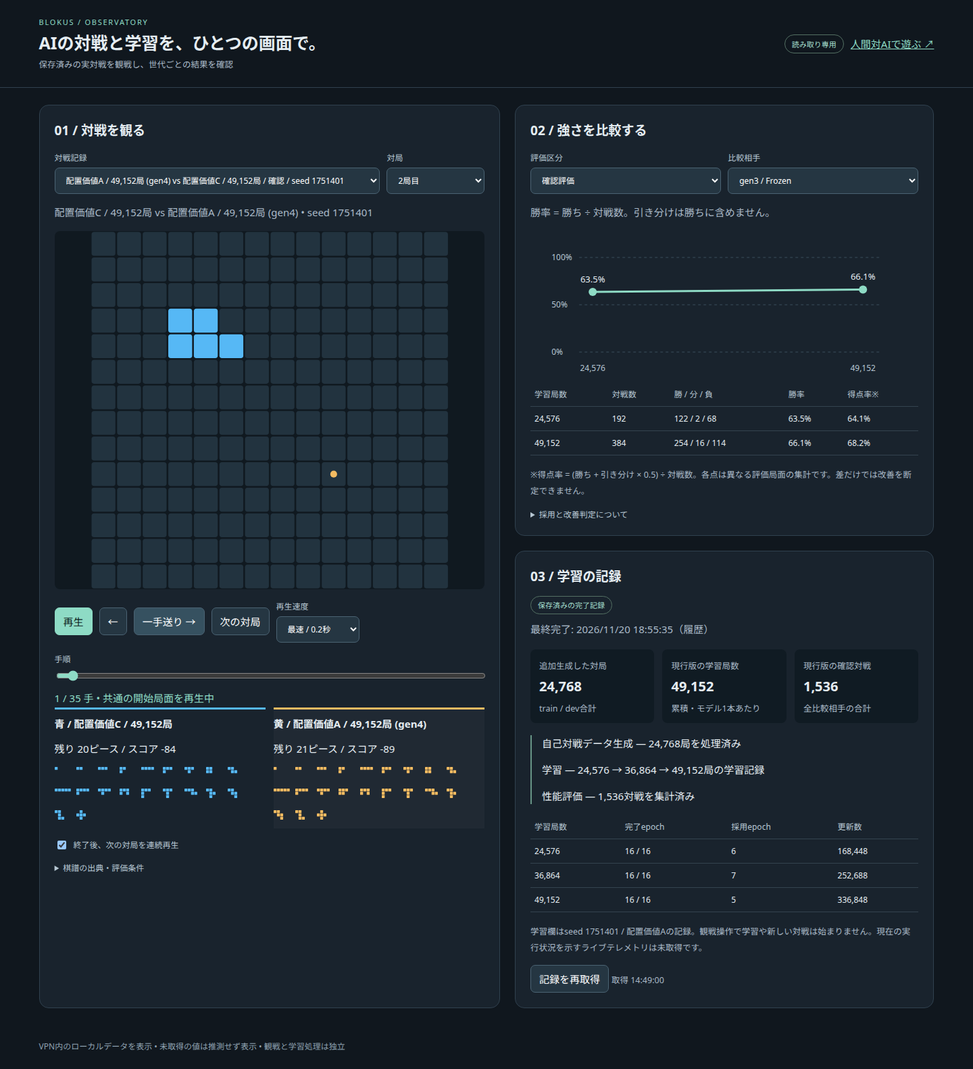
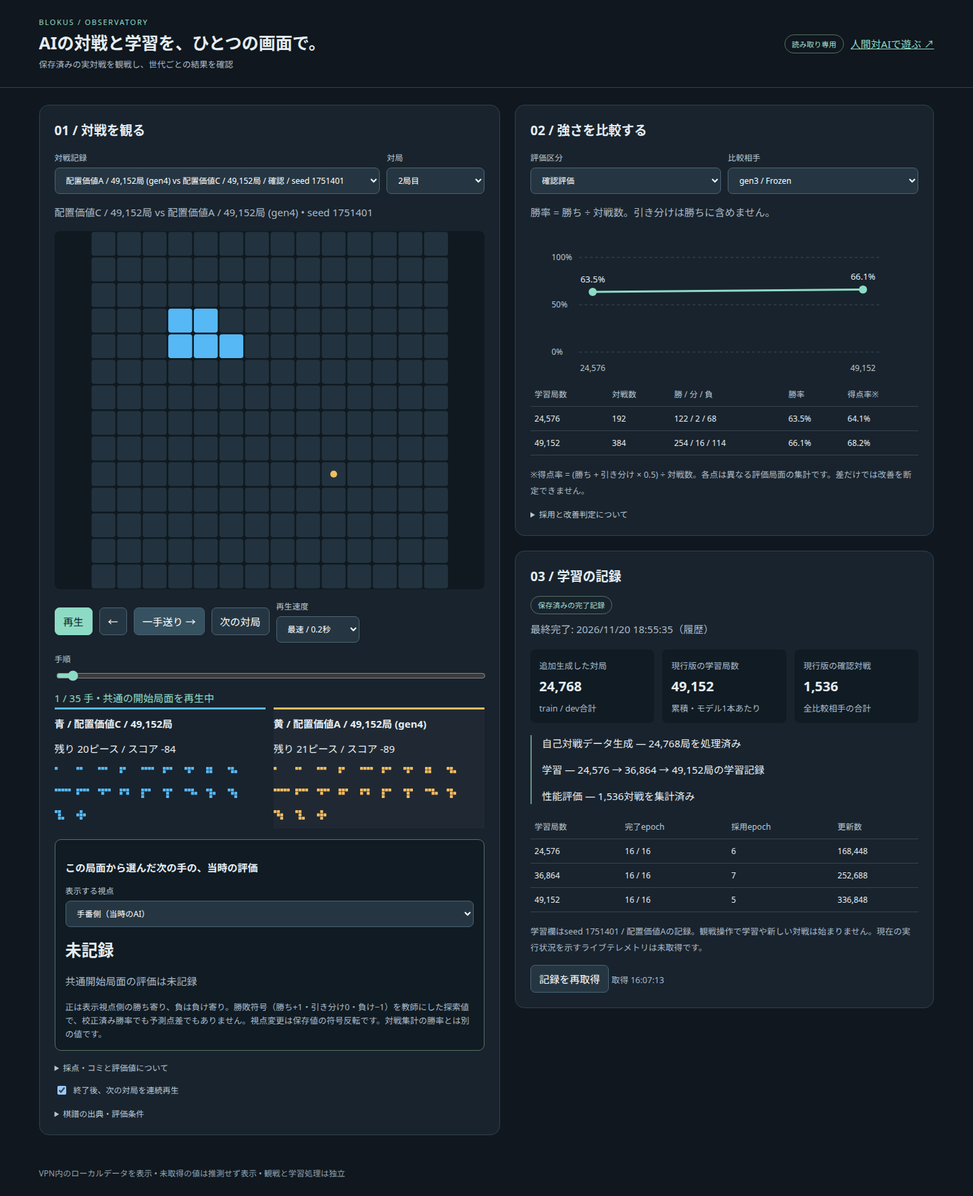
Show recorded move evaluations and hold terminal results before advancing

diff --git a/blokus/console.html b/blokus/console.html
@@ -1,33 +1,60 @@
 <!doctype html><html lang="ja"><meta charset="utf-8"><meta name="viewport" content="width=device-width,initial-scale=1"><title>Blokus Observatory — AI観戦コンソール</title>
 <style>
-:root{color-scheme:dark;font-family:system-ui,sans-serif;background:#10171e;color:#e5edf2;font-size:15px}*{box-sizing:border-box}body{margin:0}header{padding:25px 4vw;border-bottom:1px solid #31414e;display:flex;justify-content:space-between;align-items:center;gap:20px}h1{font-size:25px;margin:4px 0}h2{font-size:19px;margin:0 0 18px}h3{font-size:15px}p{line-height:1.6}.eyebrow{letter-spacing:.16em;color:#8edbc5;font-size:11px}.muted,small{color:#a9b9c7}a{color:#8edbc5}main{max-width:1550px;margin:auto;padding:25px 4vw}.grid{display:grid;grid-template-columns:minmax(370px,1.1fr) minmax(360px,1fr);gap:22px}.grid>*,.panel{min-width:0}.panel{background:#19232d;border:1px solid #30414f;border-radius:14px;padding:22px;margin-bottom:22px}.row{display:flex;gap:10px;align-items:center;flex-wrap:wrap}label{display:grid;gap:6px;font-size:12px;color:#b6c6d2;flex:1;min-width:120px}button,select{font:inherit;border:1px solid #4b6373;background:#253642;color:#fff;border-radius:7px;padding:9px 12px;max-width:100%}select{width:100%;min-width:0}button{cursor:pointer}button:hover{background:#365160}button:disabled{opacity:.4;cursor:default}button.primary{background:#8edbc5;color:#10271f;border-color:#8edbc5}input[type=range]{width:100%;accent-color:#8edbc5}#board{width:100%;max-height:530px;display:block;margin:16px auto;background:#101920;border-radius:8px}#players{display:grid;grid-template-columns:1fr 1fr;gap:12px}.player{border-top:3px solid #56b8f5;padding-top:10px;min-width:0}.player:nth-child(2){border-color:#f4bb61}.player.active{background:#ffffff08}.pieces{display:flex;flex-wrap:wrap;gap:5px;margin-top:9px}.piece{width:27px;height:27px}.state{color:#8edbc5;font-variant-numeric:tabular-nums;min-height:25px;margin-top:12px}#chart{width:100%;height:220px}table{width:100%;border-collapse:collapse;font-size:12px}td,th{padding:9px 6px;border-bottom:1px solid #34434f;text-align:left}th{color:#b6c6d2;font-weight:500}.scroll{overflow:auto}.tag{font-size:11px;border:1px solid #547063;border-radius:20px;padding:5px 10px;color:#a4dfcd}.metric{display:grid;grid-template-columns:repeat(3,1fr);gap:12px;margin:18px 0}.metric>div{background:#101b23;border-radius:8px;padding:13px}.metric strong{display:block;font-size:20px;margin:8px 0}.error{color:#ffbdad;white-space:pre-wrap}details{margin-top:15px;font-size:12px;color:#b6c6d2;overflow-wrap:anywhere}summary{cursor:pointer}.steps{border-left:2px solid #679586;padding-left:15px;line-height:1.8}footer{padding:0 4vw 25px;color:#8da0af;font-size:12px}@media(max-width:900px){.grid{grid-template-columns:1fr}header{align-items:flex-start;flex-direction:column}.panel{padding:16px}main{padding:20px 4vw}.metric{gap:6px}.metric strong{font-size:17px}}@media(prefers-reduced-motion:reduce){*{scroll-behavior:auto}}
+:root{color-scheme:dark;font-family:system-ui,sans-serif;background:#10171e;color:#e5edf2;font-size:15px}*{box-sizing:border-box}body{margin:0}header{padding:25px 4vw;border-bottom:1px solid #31414e;display:flex;justify-content:space-between;align-items:center;gap:20px}h1{font-size:25px;margin:4px 0}h2{font-size:19px;margin:0 0 18px}h3{font-size:15px}p{line-height:1.6}.eyebrow{letter-spacing:.16em;color:#8edbc5;font-size:11px}.muted,small{color:#a9b9c7}a{color:#8edbc5}main{max-width:1550px;margin:auto;padding:25px 4vw}.grid{display:grid;grid-template-columns:minmax(370px,1.1fr) minmax(360px,1fr);gap:22px}.grid>*,.panel{min-width:0}.panel{background:#19232d;border:1px solid #30414f;border-radius:14px;padding:22px;margin-bottom:22px}.row{display:flex;gap:10px;align-items:center;flex-wrap:wrap}label{display:grid;gap:6px;font-size:12px;color:#b6c6d2;flex:1;min-width:120px}button,select{font:inherit;border:1px solid #4b6373;background:#253642;color:#fff;border-radius:7px;padding:9px 12px;max-width:100%}select{width:100%;min-width:0}button{cursor:pointer}button:hover{background:#365160}button:disabled{opacity:.4;cursor:default}button.primary{background:#8edbc5;color:#10271f;border-color:#8edbc5}input[type=range]{width:100%;accent-color:#8edbc5}#board{width:100%;max-height:530px;display:block;margin:16px auto;background:#101920;border-radius:8px}#players{display:grid;grid-template-columns:1fr 1fr;gap:12px}.player{border-top:3px solid #56b8f5;padding-top:10px;min-width:0}.player:nth-child(2){border-color:#f4bb61}.player.active{background:#ffffff08}.pieces{display:flex;flex-wrap:wrap;gap:5px;margin-top:9px}.piece{width:27px;height:27px}.evaluation,.result{margin:16px 0;padding:15px;border:1px solid #547063;border-radius:9px;background:#101b23}.result{border-color:#f4bb61;font-size:18px}.evaluation strong{font-size:24px}.state{color:#8edbc5;font-variant-numeric:tabular-nums;min-height:25px;margin-top:12px}#chart{width:100%;height:220px}table{width:100%;border-collapse:collapse;font-size:12px}td,th{padding:9px 6px;border-bottom:1px solid #34434f;text-align:left}th{color:#b6c6d2;font-weight:500}.scroll{overflow:auto}.tag{font-size:11px;border:1px solid #547063;border-radius:20px;padding:5px 10px;color:#a4dfcd}.metric{display:grid;grid-template-columns:repeat(3,1fr);gap:12px;margin:18px 0}.metric>div{background:#101b23;border-radius:8px;padding:13px}.metric strong{display:block;font-size:20px;margin:8px 0}.error{color:#ffbdad;white-space:pre-wrap}details{margin-top:15px;font-size:12px;color:#b6c6d2;overflow-wrap:anywhere}summary{cursor:pointer}.steps{border-left:2px solid #679586;padding-left:15px;line-height:1.8}footer{padding:0 4vw 25px;color:#8da0af;font-size:12px}@media(max-width:900px){.grid{grid-template-columns:1fr}header{align-items:flex-start;flex-direction:column}.panel{padding:16px}main{padding:20px 4vw}.metric{gap:6px}.metric strong{font-size:17px}}@media(prefers-reduced-motion:reduce){*{scroll-behavior:auto}}
 </style>
 <header><div><div class="eyebrow">BLOKUS / OBSERVATORY</div><h1>AIの対戦と学習を、ひとつの画面で。</h1><small>保存済みの実対戦を観戦し、世代ごとの結果を確認</small></div><div class="row"><span class="tag">読み取り専用</span><a href="http://100.95.30.96:8765/">人間対AIで遊ぶ ↗</a></div></header>
-<main><div id="error" class="error" role="alert"></div><div class="grid"><section class="panel"><h2>01 / 対戦を観る</h2><div class="row"><label>対戦記録<select id="group"></select></label><label style="flex:0.3">対局<select id="game"></select></label></div><p id="match" class="muted">棋譜を取得中…</p><svg id="board" viewBox="0 0 420 420" role="img" aria-label="14×14のブロックス盤面"></svg><div class="row"><button id="play" class="primary" disabled>再生</button><button id="back" disabled aria-label="一手戻る">←</button><button id="step" disabled>一手送り →</button><button id="next" disabled>次の対局</button><label style="flex:0.4">再生速度<select id="speed"><option value="2000">ゆっくり / 2秒</option><option value="1000" selected>標準 / 1秒</option><option value="500">速い / 0.5秒</option><option value="200">最速 / 0.2秒</option></select></label></div><label style="margin-top:15px">手順<input id="seek" type="range" min="0" max="0" value="0" disabled></label><div id="state" class="state" role="status"></div><div id="players"></div><p><label style="display:flex;align-items:center;gap:8px"><input type="checkbox" id="continuous" checked>終了後、次の対局を連続再生</label></p><details><summary>棋譜の出典・評価条件</summary><p id="source"></p><p>評価対戦は共通の開始局面から行われています。開始局面までの手順も再生します。人間対AIの保存棋譜は別枠で表示し、評価勝率には含めません。</p></details></section>
+<main><div id="error" class="error" role="alert"></div><div class="grid"><section class="panel"><h2>01 / 対戦を観る</h2><div class="row"><label>対戦記録<select id="group"></select></label><label style="flex:0.3">対局<select id="game"></select></label></div><p id="match" class="muted">棋譜を取得中…</p><svg id="board" viewBox="0 0 420 420" role="img" aria-label="14×14のブロックス盤面"></svg><div class="row"><button id="play" class="primary" disabled>再生</button><button id="back" disabled aria-label="一手戻る">←</button><button id="step" disabled>一手送り →</button><button id="next" disabled>次の対局</button><label style="flex:0.4">再生速度<select id="speed"><option value="2000">ゆっくり / 2秒</option><option value="1000" selected>標準 / 1秒</option><option value="500">速い / 0.5秒</option><option value="200">最速 / 0.2秒</option></select></label></div><label style="margin-top:15px">手順<input id="seek" type="range" min="0" max="0" value="0" disabled></label><div id="state" class="state" role="status"></div><div id="result" class="result" role="status" hidden></div><div id="players"></div>
+<div class="evaluation"><h3>この局面から選んだ次の手の、当時の評価</h3><label>表示する視点<select id="perspective"><option value="mover">手番側（当時のAI）</option><option value="0">青・先手</option><option value="1">黄・後手</option></select></label><p><strong id="evaluation-value">未記録</strong></p><p id="evaluation-detail" class="muted"></p><small>正は表示視点側の勝ち寄り、負は負け寄り。勝敗符号（勝ち+1・引き分け0・負け−1）を教師にした探索値で、校正済み勝率でも予測点差でもありません。視点変更は保存値の符号反転です。対戦集計の勝率とは別の値です。</small></div>
+<details><summary>採点・コミと評価値について</summary><p>現行コードと保存スコアではコミなし（先後の点数補正なし）。残りマス数の負点がスコアです。全ピースを置くと合計+15点、最後が単マスなら合計+20点（+15にさらに+20ではありません）。高い方が勝ち、同点は引き分けです。</p><p>途中のスコアは現在の残りマスからの値で、終局点差の予測ではありません。gen4の学習対象は終局点差そのものではなく、その符号です。</p></details><p><label style="display:flex;align-items:center;gap:8px"><input type="checkbox" id="continuous" checked>終了後、次の対局を連続再生</label></p><details><summary>棋譜の出典・評価条件</summary><p id="source"></p><p>評価対戦は共通の開始局面から行われています。開始局面までの手順も再生します。人間対AIの保存棋譜は別枠で表示し、評価勝率には含めません。</p></details></section>
 <div><section class="panel"><h2>02 / 強さを比較する</h2><div class="row"><label>評価区分<select id="phase"><option value="validation">段階評価</option><option value="confirmation" selected>確認評価</option></select></label><label>比較相手<select id="opponent"></select></label></div><p class="muted">勝率 = 勝ち ÷ 対戦数。引き分けは勝ちに含めません。</p><svg id="chart" viewBox="0 0 520 220" role="img" aria-label="学習局数ごとの勝率推移"></svg><div class="scroll"><table><thead><tr><th>学習局数</th><th>対戦数</th><th>勝 / 分 / 負</th><th>勝率</th><th>得点率※</th></tr></thead><tbody id="evaluations"></tbody></table></div><p class="muted"><small>※得点率 = (勝ち + 引き分け × 0.5) ÷ 対戦数。各点は異なる評価局面の集計です。差だけでは改善を断定できません。</small></p><details><summary>採用と改善判定について</summary><p>gen4は49,152局版を採用済みですが、24,576局版に対する改善は確認されていません。結果の良し悪しに関わらず保存された段階を表示します。「直前段階」は比較相手が変わるため、相手名を分けています。</p><p id="eval-source"></p></details></section>
 <section class="panel"><h2>03 / 学習の記録</h2><span id="training-state" class="tag">未取得</span><p id="completed" class="muted"></p><div class="metric"><div><small>追加生成した対局</small><strong id="generated">未取得</strong><small>train / dev合計</small></div><div><small>現行版の学習局数</small><strong id="trained">未取得</strong><small>累積・モデル1本あたり</small></div><div><small>現行版の確認対戦</small><strong id="evaluated">未取得</strong><small>全比較相手の合計</small></div></div><div id="stages" class="steps"></div><div class="scroll"><table><thead><tr><th>学習局数</th><th>完了epoch</th><th>採用epoch</th><th>更新数</th></tr></thead><tbody id="training"></tbody></table></div><p class="muted"><small>学習欄はseed 1751401 / 配置価値Aの記録。観戦操作で学習や新しい対戦は始まりません。現在の実行状況を示すライブテレメトリは未取得です。</small></p><button id="refresh">記録を再取得</button> <small id="updated"></small></section></div></div></main><footer>VPN内のローカルデータを表示 • 未取得の値は推測せず表示 • 観戦と学習処理は独立</footer>
 <script>
 'use strict';
 const $=id=>document.getElementById(id),NS='http://www.w3.org/2000/svg',colors=['#56b8f5','#f4bb61'];
-let catalog,replay,ply=0,timer=null,playing=false,serial=0;
+let catalog,replay,ply=0,timer=null,playing=false,serial=0,endDeadline=null;
 const number=n=>n==null?'未取得':n.toLocaleString('ja-JP');
 function svg(tag,attrs,parent){const el=document.createElementNS(NS,tag);for(const [k,v]of Object.entries(attrs))el.setAttribute(k,v);parent.append(el);return el;}
 function text(parent,value){parent.textContent=value;return parent;}
 function option(select,value,label){select.add(new Option(label,value));}
 async function get(url){const response=await fetch(url);const data=await response.json();if(!response.ok)throw Error(data.error||'データ取得失敗');return data;}
 function fail(e){$('error').textContent='取得・検証エラー: '+e.message;stop();}
-function stop(){playing=false;clearTimeout(timer);timer=null;$('play').textContent='再生';}
-function schedule(){clearTimeout(timer);if(playing)timer=setTimeout(tick,Number($('speed').value));}
-async function tick(){if(!playing||!replay)return;if(ply<replay.moves.length){ply++;render();schedule();}else if($('continuous').checked&&replay.count>1){await loadGame((Number($('game').value)+1)%replay.count,true);}else stop();}
+function stop(){playing=false;clearTimeout(timer);timer=null;endDeadline=null;$('play').textContent='再生';}
+function schedule(){
+ clearTimeout(timer);if(!playing||!replay)return;
+ if(ply===replay.moves.length){
+  if(!replay.frames[ply].done||!$('continuous').checked||replay.count<2){stop();return;}
+  if(endDeadline===null)endDeadline=performance.now()+3000;
+  timer=setTimeout(tick,Math.max(0,endDeadline-performance.now()));
+ }else{endDeadline=null;timer=setTimeout(tick,Number($('speed').value));}
+}
+async function tick(){
+ if(!playing||!replay)return;
+ if(ply<replay.moves.length){ply++;render();schedule();}
+ else if(endDeadline!==null&&performance.now()<endDeadline){schedule();}
+ else if(replay.frames[ply].done&&$('continuous').checked&&replay.count>1){await loadGame((Number($('game').value)+1)%replay.count,true);}
+ else stop();
+}
+function evaluation(){
+ if(!replay)return;
+ const e=replay.evaluations?.[ply],p=$('perspective').value==='mover'?e?.player:Number($('perspective').value);
+ if(e?.value==null){$('evaluation-value').textContent='未記録';$('evaluation-detail').textContent=(e?.reason||'評価値は未記録')+(e?.depth!=null?` / 保存された探索深さ ${e.depth}`:'');return;}
+ const value=e.value*(p===e.player?1:-1),side=p===0?'青・先手':'黄・後手',m=e.move;
+ $('evaluation-value').textContent=(value>=0?'+':'')+value.toFixed(4);
+ $('evaluation-detail').textContent=`${side}視点 / 当時の手番: ${e.player===0?'青・先手':'黄・後手'} / ${e.model} / seed ${replay.seed} / 完了深さ ${e.depth} / 選択手: ピース${m[0]+1} (${m[2]+1}行${m[3]+1}列) / ${e.candidate_count}候補中の最大評価${p!==e.player?'を符号反転':''}`;
+}
 function render(){if(!replay)return;const f=replay.frames[ply],board=$('board');board.replaceChildren();const occupied=new Map();f.boards.forEach((cells,p)=>cells.forEach(([r,c])=>occupied.set(r+','+c,p)));for(let r=0;r<14;r++)for(let c=0;c<14;c++){const p=occupied.get(r+','+c);svg('rect',{x:c*30+1,y:r*30+1,width:28,height:28,rx:3,fill:p===undefined?'#22333f':colors[p]},board);}[[4,4],[9,9]].forEach(([r,c],p)=>{if(!occupied.has(r+','+c))svg('circle',{cx:c*30+15,cy:r*30+15,r:4,fill:colors[p]},board);});$('seek').value=ply;
 const phase=ply<replay.prefix_plies?'共通の開始局面を再生中':f.done?'対局終了':ply===replay.moves.length?'保存はここまで':'手番: '+replay.players[f.turn];
 const outcome=f.done?(f.scores[0]===f.scores[1]?'引き分け':replay.players[f.scores[0]>f.scores[1]?0:1]+' の勝ち'):'';
 $('state').textContent=`${ply} / ${replay.moves.length} 手 • ${phase}${outcome?' • '+outcome:''}${ply&&replay.moves[ply-1]===null?' • パス':''}`;
-$('players').replaceChildren();replay.players.forEach((name,p)=>{const wrap=document.createElement('div');wrap.className='player'+(!f.done&&p===f.turn?' active':'');const title=document.createElement('strong');title.textContent=(p===0?'青':'黄')+' / '+name;wrap.append(title);const desc=document.createElement('p');desc.textContent=`残り ${f.remaining[p].length}ピース / スコア ${f.scores[p]}`;wrap.append(desc);const pieces=document.createElement('div');pieces.className='pieces';for(const id of f.remaining[p]){const s=svg('svg',{viewBox:'0 0 50 50',class:'piece',role:'img','aria-label':'ピース'+(id+1)},pieces);for(const [r,c]of catalog.pieces[id])svg('rect',{x:c*9,y:r*9,width:8,height:8,rx:1,fill:colors[p]},s);}wrap.append(pieces);$('players').append(wrap);});$('back').disabled=ply===0;$('step').disabled=ply===replay.moves.length;}
-async function loadGame(index=0,resume=false){stop();const token=++serial;replay=null;['play','back','step','next','seek'].forEach(id=>$(id).disabled=true);$('state').textContent='棋譜を検証中…';try{const group=$('group').value;const data=await get(group.startsWith('archive:')?'/api/archive?id='+encodeURIComponent(group.slice(8)):'/api/replay?group='+encodeURIComponent(group)+'&index='+index);if(token!==serial)return;replay=data;ply=0;$('game').value=String(index);$('seek').max=data.moves.length;$('play').disabled=false;$('seek').disabled=false;$('next').disabled=data.count<2;$('match').textContent=`${data.players.join(' vs ')} • seed ${data.seed??'未取得'}`;$('source').textContent=`${data.kind} / ${data.source} / ${index+1}局目 / ${data.budget_ms??'未取得'}ms / 共通開始局面 ${data.prefix_plies}手`;$('error').textContent='';render();if(resume){playing=true;$('play').textContent='停止';schedule();}}catch(e){if(token===serial)fail(e);}}
+$('players').replaceChildren();replay.players.forEach((name,p)=>{const wrap=document.createElement('div');wrap.className='player'+(!f.done&&p===f.turn?' active':'');const title=document.createElement('strong');title.textContent=(p===0?'青':'黄')+' / '+name;wrap.append(title);const desc=document.createElement('p');desc.textContent=`残り ${f.remaining[p].length}ピース / スコア ${f.scores[p]}`;wrap.append(desc);const pieces=document.createElement('div');pieces.className='pieces';for(const id of f.remaining[p]){const s=svg('svg',{viewBox:'0 0 50 50',class:'piece',role:'img','aria-label':'ピース'+(id+1)},pieces);for(const [r,c]of catalog.pieces[id])svg('rect',{x:c*9,y:r*9,width:8,height:8,rx:1,fill:colors[p]},s);}wrap.append(pieces);$('players').append(wrap);});$('back').disabled=ply===0;$('step').disabled=ply===replay.moves.length;
+ $('result').hidden=!f.done;
+ $('result').textContent=f.done?`${outcome}｜青 ${f.scores[0]}点 / 黄 ${f.scores[1]}点｜${Math.abs(f.scores[0]-f.scores[1])}点差` : '';
+ evaluation();
+}
+async function loadGame(index=0,resume=false){stop();const token=++serial;replay=null;$('result').hidden=true;$('evaluation-value').textContent='未記録';$('evaluation-detail').textContent='棋譜を取得中…';['play','back','step','next','seek'].forEach(id=>$(id).disabled=true);$('state').textContent='棋譜を検証中…';try{const group=$('group').value;const data=await get(group.startsWith('archive:')?'/api/archive?id='+encodeURIComponent(group.slice(8)):'/api/replay?group='+encodeURIComponent(group)+'&index='+index);if(token!==serial)return;replay=data;ply=0;$('game').value=String(index);$('seek').max=data.moves.length;$('play').disabled=false;$('seek').disabled=false;$('next').disabled=data.count<2;$('match').textContent=`${data.players.join(' vs ')} • seed ${data.seed??'未取得'}`;$('source').textContent=`${data.kind} / ${data.source} / ${index+1}局目 / ${data.budget_ms??'未取得'}ms / 共通開始局面 ${data.prefix_plies}手`;$('error').textContent='';render();if(resume){playing=true;$('play').textContent='停止';schedule();}}catch(e){if(token===serial)fail(e);}}
 function groupChanged(){const value=$('group').value;const group=catalog.groups.find(g=>g.id===value);$('game').replaceChildren();for(let i=0;i<(group?.count||1);i++)option($('game'),i,`${i+1}局目`);loadGame();}
 function plot(){const phase=$('phase').value,opponent=$('opponent').value;const rows=catalog.evaluations.filter(e=>e.phase===phase&&e.opponent===opponent).sort((a,b)=>a.stage-b.stage);$('evaluations').replaceChildren();for(const r of rows){const tr=document.createElement('tr');for(const v of[number(r.stage),number(r.games),`${r.wins} / ${r.draws} / ${r.losses}`,(100*r.win_rate).toFixed(1)+'%',(100*r.point).toFixed(1)+'%']){const td=document.createElement('td');td.textContent=v;tr.append(td);}$('evaluations').append(tr);}const chart=$('chart');chart.replaceChildren();for(const pct of[0,50,100]){const y=180-pct*1.4;svg('line',{x1:45,x2:490,y1:y,y2:y,stroke:'#3b4e5c','stroke-dasharray':'4 4'},chart);text(svg('text',{x:4,y:y+4,fill:'#b6c6d2','font-size':12},chart),pct+'%');}const points=rows.map((r,i)=>[rows.length===1?267:65+i*400/(rows.length-1),180-r.win_rate*140]);if(points.length>1)svg('polyline',{points:points.map(p=>p.join(',')).join(' '),fill:'none',stroke:'#8edbc5','stroke-width':3},chart);points.forEach(([x,y],i)=>{const r=rows[i];const c=svg('circle',{cx:x,cy:y,r:6,fill:'#8edbc5'},chart);text(svg('title',{},c),`${r.stage}局 / 対${r.opponent}: ${r.wins}勝 ${r.draws}分 ${r.losses}敗`);text(svg('text',{x,y:y-14,fill:'#e5edf2','font-size':13,'text-anchor':'middle'},chart),(r.win_rate*100).toFixed(1)+'%');text(svg('text',{x,y:208,fill:'#b6c6d2','font-size':12,'text-anchor':'middle'},chart),number(r.stage));});if(!rows.length)text(svg('text',{x:160,y:100,fill:'#b6c6d2'},chart),'比較データは未取得');$('eval-source').textContent=rows.map(r=>r.source).join(' / ');}
 function comparisons(){const prior=$('opponent').value;$('opponent').replaceChildren();const names=[...new Set(catalog.evaluations.filter(e=>e.phase===$('phase').value).map(e=>e.opponent))];names.sort((a,b)=>(a==='gen3 / Frozen'?-1:b==='gen3 / Frozen'?1:a.localeCompare(b)));names.forEach(n=>option($('opponent'),n,n));if(names.includes(prior))$('opponent').value=prior;plot();}
 async function refresh(){try{const data=await get('/api/catalog');catalog=data;const prior=$('group').value;$('group').replaceChildren();data.groups.sort((a,b)=>b.stage-a.stage||a.phase.localeCompare(b.phase));for(const g of data.groups)option($('group'),g.id,`${g.left} vs ${g.right} / ${g.phase==='confirmation'?'確認':'段階'} / seed ${g.seed}`);for(const g of data.archive)option($('group'),'archive:'+g.id,`人間 vs ${g.mode} / ${g.started.slice(0,10)} / ${g.plies}手`);if([...$('group').options].some(o=>o.value===prior))$('group').value=prior;if(!replay&&$('group').options.length)groupChanged();else if(!$('group').options.length){$('match').textContent='棋譜は未取得です';$('state').textContent='';}comparisons();const p=data.progress;$('training-state').textContent=p.finished?'保存済みの完了記録':'完了状況は未取得';$('completed').textContent=p.finished?'最終完了: '+new Date(p.finished).toLocaleString('ja-JP')+'（履歴）':'完了時刻は未取得です';$('generated').textContent=number(p.generated);$('trained').textContent=number(data.training.find(t=>t.stage===49152)?.games);const evaluation=data.evaluations.filter(e=>e.stage===49152&&e.phase==='confirmation');$('evaluated').textContent=evaluation.length?number(evaluation.reduce((s,e)=>s+e.games,0)):'未取得';$('stages').replaceChildren();for(const [name,matching]of[['自己対戦データ生成',p.generated!=null?`${number(p.generated)}局を処理済み`:'未取得'],['学習',data.training.length?`${data.training.map(t=>number(t.stage)).join(' → ')}局の学習記録`:'未取得'],['性能評価',evaluation.length?`${number(evaluation.reduce((s,e)=>s+e.games,0))}対戦を集計済み`:'未取得']]){const line=document.createElement('p');line.textContent=name+' — '+matching;$('stages').append(line);}$('training').replaceChildren();for(const t of data.training){const tr=document.createElement('tr');for(const v of[number(t.stage),`${number(t.epochs)} / ${number(t.target_epochs)}`,number(t.selected_epoch),number(t.updates)]){const td=document.createElement('td');td.textContent=v;tr.append(td);}$('training').append(tr);}$('updated').textContent='取得 '+new Date(data.updated).toLocaleTimeString('ja-JP');if(data.errors.length)$('error').textContent=data.errors.join('\n');}catch(e){fail(e);}}
-$('play').onclick=()=>{if(playing)stop();else if(replay){if(ply===replay.moves.length)ply=0;playing=true;$('play').textContent='停止';render();schedule();}};$('step').onclick=()=>{stop();ply=Math.min(ply+1,replay.moves.length);render();};$('back').onclick=()=>{stop();ply=Math.max(ply-1,0);render();};$('seek').oninput=()=>{stop();ply=Number($('seek').value);render();};$('next').onclick=()=>loadGame((Number($('game').value)+1)%replay.count,playing);$('speed').onchange=schedule;$('group').onchange=groupChanged;$('game').onchange=()=>loadGame(Number($('game').value));$('phase').onchange=comparisons;$('opponent').onchange=plot;$('refresh').onclick=refresh;refresh();
+$('play').onclick=()=>{if(playing)stop();else if(replay){playing=true;$('play').textContent='停止';render();schedule();}};$('step').onclick=()=>{stop();ply=Math.min(ply+1,replay.moves.length);render();};$('back').onclick=()=>{stop();ply=Math.max(ply-1,0);render();};$('seek').oninput=()=>{stop();ply=Number($('seek').value);render();};$('next').onclick=()=>loadGame((Number($('game').value)+1)%replay.count,playing);$('speed').onchange=schedule;$('perspective').onchange=evaluation;$('continuous').onchange=()=>{if(replay&&ply===replay.moves.length&&!$('continuous').checked)stop();};$('group').onchange=groupChanged;$('game').onchange=()=>loadGame(Number($('game').value));$('phase').onchange=comparisons;$('opponent').onchange=plot;$('refresh').onclick=refresh;refresh();
 </script></html>

diff --git a/scripts/check_console_evaluation_browser.py b/scripts/check_console_evaluation_browser.py
@@ -1,0 +1,71 @@
+"""Check recorded perspectives and terminal hold using real replay and wall time."""
+import json,time
+from pathlib import Path
+from playwright.sync_api import sync_playwright
+out=Path('artifacts/console-review')
+with sync_playwright() as p:
+    browser=p.chromium.launch(executable_path='/usr/bin/google-chrome',headless=True,args=['--no-sandbox'])
+    page=browser.new_page(viewport={'width':1440,'height':1100});errors=[]
+    page.on('pageerror',lambda e:errors.append(str(e)))
+    page.goto('http://100.95.30.96:8766/')
+    page.wait_for_function('replay && replay.evaluations!==undefined')
+    def seek(expr):
+        page.locator('#seek').evaluate('(el,expression)=>{el.value=eval(expression);el.dispatchEvent(new Event("input"));}',expr)
+    seek('replay.prefix_plies')
+    original=page.evaluate('replay.evaluations[ply]')
+    assert original['value'] is not None
+    page.select_option('#perspective',str(original['player']))
+    a=float(page.locator('#evaluation-value').inner_text())
+    page.select_option('#perspective',str(1-original['player']))
+    b=float(page.locator('#evaluation-value').inner_text());assert abs(a+b)<.00001
+    assert '符号反転' in page.locator('#evaluation-detail').inner_text()
+    page.click('#step');next_eval=page.evaluate('replay.evaluations[ply]')
+    assert next_eval['player']!=original['player']
+    page.select_option('#perspective','mover')
+    assert abs(float(page.locator('#evaluation-value').inner_text())-next_eval['value'])<.0001
+    page.screenshot(path=str(out/'evaluation-desktop.png'),full_page=True)
+    seek('0');assert page.locator('#evaluation-value').inner_text()=='未記録'
+    page.select_option('#speed','200')
+    seek('replay.moves.length-1');page.click('#play')
+    page.wait_for_function('ply===replay.moves.length');start=time.monotonic()
+    old=page.locator('#game').input_value()
+    assert page.locator('#result').is_visible()
+    assert '点差' in page.locator('#result').inner_text()
+    result=page.locator('#result').inner_text()
+    page.screenshot(path=str(out/'terminal-result.png'),full_page=True)
+    # Change speed while holding: original end deadline must be preserved.
+    page.select_option('#speed','2000')
+    time.sleep(max(0,2.6-(time.monotonic()-start)))
+    assert page.locator('#game').input_value()==old
+    page.wait_for_function('(old)=>document.getElementById("game").value!==old && replay!==null',arg=old)
+    elapsed=time.monotonic()-start;assert 2.85<=elapsed<4.2,elapsed
+    page.click('#play')
+    # Pausing during terminal hold prevents the queued transition.
+    page.select_option('#speed','200');seek('replay.moves.length-1');page.click('#play')
+    page.wait_for_function('ply===replay.moves.length');page.click('#play');old=page.locator('#game').input_value()
+    page.wait_for_timeout(3200);assert page.locator('#game').input_value()==old
+    # Resuming at terminal holds again; disabling continuous cancels that wait.
+    page.click('#play');page.locator('#continuous').uncheck()
+    page.wait_for_timeout(3200);assert page.locator('#game').input_value()==old
+    assert page.locator('#play').inner_text()=='再生'
+    # Manual step to terminal never schedules next game, even with continuous on.
+    page.locator('#continuous').check();seek('replay.moves.length-1');page.click('#step')
+    page.wait_for_timeout(3200);assert page.locator('#game').input_value()==old
+    assert page.locator('#result').is_visible()
+    # Continuous off during ordinary playback leaves the terminal result visible.
+    page.locator('#continuous').uncheck();seek('replay.moves.length-1');page.click('#play')
+    page.wait_for_function('ply===replay.moves.length && !playing')
+    page.wait_for_timeout(3200);assert page.locator('#game').input_value()==old
+    archive=page.locator('#group option').evaluate_all('(xs)=>xs.find(o=>o.value.startsWith("archive:") && o.textContent.includes("gen4")).value')
+    page.select_option('#group',archive);page.wait_for_function('replay!==null && replay.kind==="人間対AI"')
+    seek('1');assert page.locator('#evaluation-value').inner_text()=='未記録'
+    assert '残っていません' in page.locator('#evaluation-detail').inner_text()
+    page.set_viewport_size({'width':390,'height':844})
+    assert page.evaluate('document.documentElement.scrollWidth<=innerWidth')
+    page.screenshot(path=str(out/'evaluation-mobile.png'),full_page=True)
+    assert not errors,errors
+    print(json.dumps(dict(terminal_hold_seconds=elapsed,terminal_text=result,perspective_values=[a,b],
+          checks=['mover/first/second perspective','actual next mover','prefix missing','human archive missing',
+          'terminal 3 seconds independent of speed','pause cancels transition','continuous off cancels transition',
+          'manual terminal stays','continuous off during playback','mobile width'],browser_errors=errors),ensure_ascii=False,indent=2))
+    browser.close()

diff --git a/blokus/console.py b/blokus/console.py
@@ -5,6 +5,7 @@ from functools import lru_cache
 import gzip
 from http.server import BaseHTTPRequestHandler, ThreadingHTTPServer
 import json
+import math
 from pathlib import Path
 import sqlite3
 from urllib.parse import urlsplit, parse_qs
@@ -36,6 +37,40 @@ def frames(moves, expected_scores=None):
         result.append(snapshot())
     if expected_scores is not None and result[-1]['scores'] != expected_scores:
         raise ValueError('棋譜の再生結果と保存スコアが一致しません')
+    return result
+
+
+def recorded_evaluation(stats, player, model, move, *, trusted=False, reason=None):
+    """DeepSearch chooses argmax(root_scores) of the last completed iteration.
+
+    The root scores already use the mover's perspective. Do not select by
+    piece id, average roots, or regenerate the candidate order with inference.
+    Only the indexed evaluation shards have this audited producer contract.
+    """
+    stats = stats if isinstance(stats, dict) else {}
+    result = dict(value=None, player=player, model=model, move=move,
+                  depth=stats.get('depth'), reason=reason or '選択手の評価値は未記録',
+                  meaning='勝敗符号を教師にした探索評価（勝率・予測点差ではない）')
+    values = stats.get('root_scores')
+    if not trusted:
+        return result
+    if stats.get('player') != player:
+        result['reason'] = '保存statsの手番が棋譜と不一致'
+        return result
+    if move is None or stats.get('forced_pass'):
+        result['reason'] = '強制パスの探索評価は未記録'
+    elif stats.get('fallback') is not False:
+        result['reason'] = '探索未完了・代替手の評価は未記録'
+    elif (not isinstance(values, list) or not values or
+          not all(type(v) in (float, int) and math.isfinite(v) for v in values) or
+          stats.get('depth') not in (2, 4, 6) or
+          not stats.get('stages') or stats['stages'][-1] != stats['depth']):
+        result['reason'] = '完了した探索段階の評価値は未記録'
+    else:
+        selected = max(range(len(values)), key=values.__getitem__)
+        result.update(value=values[selected], root_index=selected,
+                      candidate_count=len(values), reason=None,
+                      extraction='最後の完了深さのroot_scores最大値（同点は最初）')
     return result
 
 
@@ -141,8 +176,20 @@ class Sources:
         players = [None, None]
         players[game['seat']] = self.model(data['left'], stage)
         players[1-game['seat']] = self.model(data['right'], stage)
+        snapshots = frames(moves, game['scores'])
+        evaluations = []
+        stats = game.get('stats', [])
+        aligned = len(stats) == len(game['moves'])
+        for ply, move in enumerate(moves):
+            player = snapshots[ply]['turn']
+            recorded = stats[ply-len(prefix)] if aligned and ply >= len(prefix) else None
+            evaluations.append(recorded_evaluation(recorded, player, players[player], move,
+                trusted=aligned and ply >= len(prefix),
+                reason='共通開始局面の評価は未記録' if ply < len(prefix) else None))
+        evaluations.append(dict(value=None, reason='終局：探索評価は未記録（最終結果は実測）'))
         return dict(players=players, seed=data['seed'], prefix_plies=len(prefix), moves=moves,
-                    frames=frames(moves, game['scores']), source=group, index=index,
+                    evaluations=evaluations,
+                    frames=snapshots, source=group, index=index,
                     count=len(data['games']), kind='AI評価対戦', budget_ms=data['budget_ms'])
 
     def human_game(self, key):
@@ -153,8 +200,16 @@ class Sources:
         r = json.loads(row[0]); players = [r['generation'], r['generation']]
         players[r['human_seat']] = '人間'
         moves = [m['move'] for m in r['moves']]
+        snapshots = frames(moves, r['scores'])
+        evaluations = [recorded_evaluation(item.get('stats'), snapshots[i]['turn'],
+                        players[snapshots[i]['turn']], item['move'],
+                        reason='人間の手：AI評価は未記録' if item.get('actor') == 'human'
+                        else 'Web保存棋譜には選択手の評価値が残っていません')
+                       for i, item in enumerate(r['moves'])]
+        evaluations.append(dict(value=None, reason='終局または保存末尾：探索評価は未記録'))
         return dict(players=players, seed=r.get('model_seed'), prefix_plies=0, moves=moves,
-                    frames=frames(moves, r['scores']), source='人間対AI 保存棋譜', index=0,
+                    evaluations=evaluations,
+                    frames=snapshots, source='人間対AI 保存棋譜', index=0,
                     count=1, kind='人間対AI', budget_ms=r.get('budget_ms'))
 
 

diff --git a/tests/test_console.py b/tests/test_console.py
@@ -28,11 +28,15 @@ def test_replay_includes_prefix_and_respects_seat(tmp_path):
     write(root/'confirmation-bank.json', {'prefixes': [{'moves': prefix}]})
     path = root/'confirmation-AF-1.json.gz'
     write(path, dict(left='A', right='F', seed=1, budget_ms=500,
-                    games=[dict(prefix=0, seat=1, moves=moves, scores=score)]))
+                    games=[dict(prefix=0, seat=1, moves=moves, scores=score, stats=[dict(player=1, root_scores=[-.2,.6], depth=2, stages=[2], fallback=False)])]))
     source = Sources(tmp_path, tmp_path/'none.sqlite3')
     result = source.game(str(path.relative_to(tmp_path)), 0)
     assert result['players'][0] == 'gen3 / Frozen'
     assert result['prefix_plies'] == 1
+    assert result['evaluations'][0]['value'] is None
+    assert result['evaluations'][1]['value'] == .6
+    assert result['evaluations'][1]['player'] == 1
+    assert result['evaluations'][2]['value'] is None
     assert len(result['frames']) == 3
     assert result['frames'][1]['boards'] == [[(4, 4)], []]
     assert result['frames'][2]['boards'] == [[(4, 4)], [(9, 9)]]
@@ -57,3 +61,24 @@ def test_archive_filters_tests_and_never_writes(tmp_path):
     assert source.human_game('real')['players'] == ['gen4', '人間']
     with pytest.raises(KeyError): source.human_game('test')
     assert before == path.read_bytes()
+
+
+def test_recorded_selected_value_uses_completed_argmax_not_first_or_average():
+    from blokus.console import recorded_evaluation
+    stats = dict(player=1, root_scores=[-.8, .7, .2, .7], depth=4, stages=[2, 4], fallback=False)
+    result = recorded_evaluation(stats, 1, 'gen4', [0, 0, 9, 9], trusted=True)
+    assert result['value'] == .7 and result['root_index'] == 1
+    assert result['player'] == 1 and result['depth'] == 4
+    assert recorded_evaluation(stats, 0, 'gen4', [0,0,4,4], trusted=True)['value'] is None
+    for extra in [dict(fallback=True), dict(forced_pass=True), dict(root_scores=[]),
+                  dict(root_scores=[float('nan')]), dict(stages=[2])]:
+        assert recorded_evaluation(stats | extra, 1, 'gen4', [0,0,9,9], trusted=True)['value'] is None
+    assert recorded_evaluation(stats, 1, 'gen4', [0,0,9,9])['value'] is None
+
+
+def test_score_rules_no_komi_and_full_placement_bonus():
+    from blokus.engine import State
+    s = State()
+    assert [s.score(p) for p in (0,1)] == [-89, -89]
+    s.remaining = [0,0];s.last = [1,0]
+    assert [s.score(p) for p in (0,1)] == [15,20]

diff --git a/scripts/check_console_evaluations.py b/scripts/check_console_evaluations.py
@@ -1,0 +1,26 @@
+"""Audit every saved evaluation stat without inference or source mutations."""
+from collections import Counter
+import json
+from blokus.console import Sources, read_json, recorded_evaluation
+s=Sources('/home/eletim/blokus-value-placement/artifacts','/home/eletim/.local/share/blokus-web/games.sqlite3')
+c=Counter()
+for stage,path in s.shards():
+    data=read_json(path)
+    bank=read_json(path.parent/(path.name.split('-')[0]+'-bank.json'))['prefixes']
+    for game in data['games']:
+        prefix=len(bank[game['prefix']]['moves']);c['games']+=1;c['prefix_positions_without_evaluation']+=prefix
+        assert len(game['stats'])==len(game['moves'])
+        for i,(st,move) in enumerate(zip(game['stats'],game['moves'])):
+            player=(prefix+i)%2
+            assert st['player']==player
+            assert st['method']==(data['left'] if player==game['seat'] else data['right'])
+            e=recorded_evaluation(st,player,s.model(st['method'],stage),move,trusted=True)
+            c['recorded_stats']+=1
+            if e['value'] is not None:
+                assert e['value']==max(st['root_scores'])
+                assert st['stages'][-1]==e['depth']
+                c['selected_move_evaluations']+=1
+            else:
+                assert st['forced_pass'] and move is None
+                c['forced_pass_without_evaluation']+=1
+print(json.dumps(dict(c),indent=2))

diff --git a/CONSOLE.md b/CONSOLE.md
@@ -41,3 +41,27 @@ python3 -m blokus.console --host 100.95.30.96 --port 8766 \
 `scripts/check_console_browser.py`は既存のPlaywright/Chrome環境で8766番のみを操作します。再生・停止・一手送り・速度・シーク・終局結果・次局連続再生、グラフの切替、人間棋譜、デスクトップ/390px幅の画面、変更API拒否を検証します。JSON結果とスクリーンショットは`artifacts/console-review/`に保存します。既存8765番へのPOSTは行いません。
 
 VPNアドレスへのHTTP応答とブラウザ表示はE-frontierから確認しています。別のVPN端末からの閲覧は未検証です。
+
+## 当時の選択手評価（追加表示）
+
+各盤面で「その局面から次に実際に選んだ手」の保存探索値を表示します。手を置いた後の新たな推論値ではありません。手番側・青/先手・黄/後手の視点を選択でき、相手側への切替は保存値の符号反転です。モデル名、seed、最後に完了した探索深さ、選択手のピース/位置を併記します。
+
+抽出根拠は`blokus/ppo_search_deeper.py`の`DeepSearch.act`です。候補手ごとのnegamax値を手番側へ戻した`root_scores`を各完了段階で保存し、その最大値の手を選択します。同点なら最初です。タイムアウトで未完了の段階は記録を上書きしないため、最後の完了深さの最大値が実際の選択手評価になります。候補順を新推論で再構築したり、先頭値・平均値を選択手の値として扱ったりしません。完了深さとstagesの一致、fallback、forced_pass、有限値、棋譜手番を確認し、不足時は未記録にします。
+
+全2,592評価対戦の65,416件のstatsを調査し、56,900手の選択手評価を抽出できました。8,516手の強制パスと、共通開始局面の延べ25,752手には探索値がありません。人間対AIのWebは`web_play.py`で`stats.pop('root_scores', None)`を行っていたため、既存の人間棋譜では当時の値を復元できません。深さだけ残っている場合は深さと未記録を併記します。新推論やモデル変更は行っていません。
+
+### 値の意味と点差予測との違い
+
+現行gen4の教師は`placement_experiment.py`の`np.sign(最終スコア[手番]-最終スコア[相手])`で、勝ち+1、同点0、負け−1です。`placement_value.py`の終局処理も同じ符号です。gen3のPPO系も`ppo_runtime.py`の勝敗符号を使用しています。探索値はこのモデルを先読みで利用した値であり、校正された勝率ではなく、実対戦集計の勝率とも異なります。数値を百分率に変換していません。
+
+点差予測なら「最終的に何点勝ち/負けそうか」を点単位で説明でき、1点勝ちと大勝を区別できます。一方、現行の勝敗符号教師は両者を同じ+1として扱うため、今の保存評価値から点差を復元することはできません。途中の残りマスの差も終局点差予測ではありません。
+
+仮に点差予測を導入するなら、教師と損失・検証を別途設計する必要があります。平均点差の改善と勝率の改善は同じではなく、まれな大勝を重視して接戦の勝ちを失う選択も起こり得ます。観戦の説明用に点差予測を併記する設計は考えられますが、選択手の目的まで変更するかは別判断です。今回、再学習・学習目的変更・コミ導入はしていません。旧value系に存在する点差教師とは区別しています。
+
+### 採点と終局表示
+
+`engine.State.score`では残りピースのマス数の負点、全置きは合計+15点、最後が単マスなら合計+20点です。両者同じ式でコミ補正はありません。今回読み込んだ評価の勝敗もスコアを直接比較しています。初期状態は先後とも−89点。コードの採点テストと実棋譜の保存スコア一致で確認しました。
+
+終局では勝者・青黄の最終スコア・絶対点差を表示します。自動連続再生では約3秒保持し、通常の再生速度を変更しても終局の期限は変わりません。停止または連続再生OFFは移動を取り消します。停止から終局で再生すると新たに3秒保持します。手送り/シークで終局へ進めた場合は自動移動しません。任意の「次の対局」操作は待機を飛ばせます。
+
+追加検証: 単体テスト計5件、全statsの手番・選択値・深さの照合、Chromeで視点の符号反転と次手番切替、欠損表示、終局待機実測3.10秒、待機中の速度変更・停止・連続OFF・手送り、390px表示を確認。`evaluation-data-check.json` / `evaluation-browser-check.json` / `evaluation-desktop.png` / `terminal-result.png` / `evaluation-mobile.png`に記録しています。
